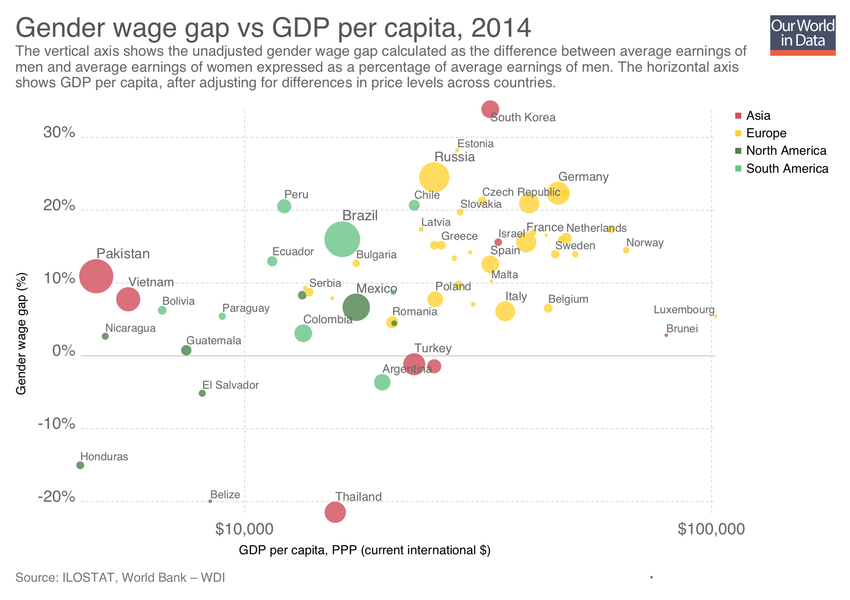
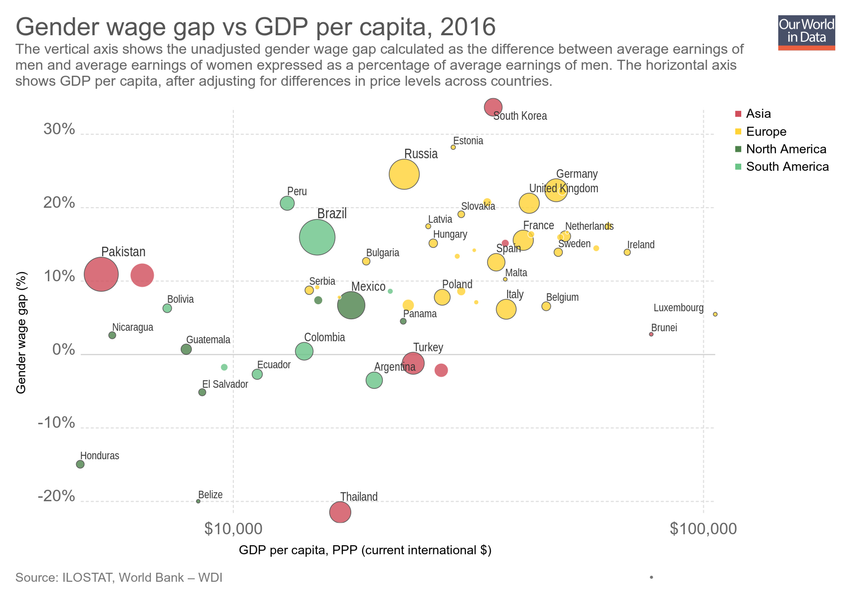
Updating chart gender-wage-gap-vs-gdp-per-capita

diff --git a/grapher/gender-wage-gap-vs-gdp-per-capita.html b/grapher/gender-wage-gap-vs-gdp-per-capita.html
@@ -1,4 +1,4 @@
-<!doctype html><html><head><meta name="viewport" content="width=device-width, initial-scale=1" /><title>Gender wage gap vs GDP per capita - Our World in Data</title><meta name="description" content="The vertical axis shows the unadjusted gender wage gap calculated as the difference between average earnings of men and average earnings of women expressed as a percentage of average earnings of men. The horizontal axis shows GDP per capita, after adjusting for differences in price levels across countries." /><link rel="canonical" href="https://ourworldindata.org/grapher/gender-wage-gap-vs-gdp-per-capita" /><meta property="fb:app_id" content="1149943818390250" /><meta property="og:url" content="https://ourworldindata.org/grapher/gender-wage-gap-vs-gdp-per-capita" /><meta property="og:title" content="Gender wage gap vs GDP per capita" /><meta property="og:description" content="The vertical axis shows the unadjusted gender wage gap calculated as the difference between average earnings of men and average earnings of women expressed as a percentage of average earnings of men. The horizontal axis shows GDP per capita, after adjusting for differences in price levels across countries." /><meta property="og:image" content="https://ourworldindata.org/grapher/exports/gender-wage-gap-vs-gdp-per-capita.png?v=2" /><meta property="og:image:width" content="850" /><meta property="og:image:height" content="600" /><meta property="og:site_name" content="Our World in Data" /><meta name="twitter:card" content="summary_large_image" /><meta name="twitter:site" content="@OurWorldInData" /><meta name="twitter:creator" content="@OurWorldInData" /><meta name="twitter:title" content="Gender wage gap vs GDP per capita" /><meta name="twitter:description" content="The vertical axis shows the unadjusted gender wage gap calculated as the difference between average earnings of men and average earnings of women expressed as a percentage of average earnings of men. The horizontal axis shows GDP per capita, after adjusting for differences in price levels across countries." /><meta name="twitter:image" content="https://ourworldindata.org/grapher/exports/gender-wage-gap-vs-gdp-per-capita.png?v=2" /><style>
+<!doctype html><html><head><meta name="viewport" content="width=device-width, initial-scale=1" /><title>Gender wage gap vs GDP per capita - Our World in Data</title><meta name="description" content="The vertical axis shows the unadjusted gender wage gap calculated as the difference between average earnings of men and average earnings of women expressed as a percentage of average earnings of men. The horizontal axis shows GDP per capita, after adjusting for differences in price levels across countries." /><link rel="canonical" href="https://ourworldindata.org/grapher/gender-wage-gap-vs-gdp-per-capita" /><meta property="fb:app_id" content="1149943818390250" /><meta property="og:url" content="https://ourworldindata.org/grapher/gender-wage-gap-vs-gdp-per-capita" /><meta property="og:title" content="Gender wage gap vs GDP per capita" /><meta property="og:description" content="The vertical axis shows the unadjusted gender wage gap calculated as the difference between average earnings of men and average earnings of women expressed as a percentage of average earnings of men. The horizontal axis shows GDP per capita, after adjusting for differences in price levels across countries." /><meta property="og:image" content="https://ourworldindata.org/grapher/exports/gender-wage-gap-vs-gdp-per-capita.png?v=3" /><meta property="og:image:width" content="850" /><meta property="og:image:height" content="600" /><meta property="og:site_name" content="Our World in Data" /><meta name="twitter:card" content="summary_large_image" /><meta name="twitter:site" content="@OurWorldInData" /><meta name="twitter:creator" content="@OurWorldInData" /><meta name="twitter:title" content="Gender wage gap vs GDP per capita" /><meta name="twitter:description" content="The vertical axis shows the unadjusted gender wage gap calculated as the difference between average earnings of men and average earnings of women expressed as a percentage of average earnings of men. The horizontal axis shows GDP per capita, after adjusting for differences in price levels across countries." /><meta name="twitter:image" content="https://ourworldindata.org/grapher/exports/gender-wage-gap-vs-gdp-per-capita.png?v=3" /><style>
         html, body {
             height: 100%;
             margin: 0;
@@ -20,8 +20,8 @@
         }
     </style><noscript><style>
                     figure { display: none !important; }
-                </style></noscript><link rel="stylesheet" href="https://ourworldindata.org/grapher/assets/commons.bundle.dcbbe53805c487d5e57617b10ac73a8a.css" /><link rel="preload" href="/grapher/data/variables/65628+2210+72+123.json?v=2" as="fetch" crossorigin /></head><body class="singleChart"><figure data-grapher-src="/grapher/gender-wage-gap-vs-gdp-per-capita"></figure><noscript id="fallback"><img src="/grapher/exports/gender-wage-gap-vs-gdp-per-capita.svg" /><p>Interactive visualization requires JavaScript</p></noscript><script src="https://cdn.polyfill.io/v2/polyfill.min.js?features=es6,fetch"></script><script src="https://ourworldindata.org/grapher/assets/commons.bundle.ec195eba909527e01aa5.js"></script><script src="https://ourworldindata.org/grapher/assets/charts.bundle.ec195eba909527e01aa5.js"></script><script>
-        var jsonConfig = {"id":1699,"map":{"projection":"SouthAmerica","targetYear":2016,"variableId":65628,"timeTolerance":10,"colorSchemeLabels":[],"colorSchemeValues":[-22,-16,-9,-3,4,10,17,23,30,36],"defaultProjection":"World","colorSchemeMinValue":-25,"customNumericColors":[],"customCategoryColors":{},"customCategoryLabels":{},"customHiddenCategories":{}},"tab":"chart","slug":"gender-wage-gap-vs-gdp-per-capita","type":"ScatterPlot","title":"Gender wage gap vs GDP per capita","xAxis":{"scaleType":"log","canChangeScaleType":true},"yAxis":{"min":0,"scaleType":"linear"},"maxTime":2016,"minTime":2016,"version":2,"subtitle":"The vertical axis shows the unadjusted gender wage gap calculated as the difference between average earnings of men and average earnings of women expressed as a percentage of average earnings of men. The horizontal axis shows GDP per capita, after adjusting for differences in price levels across countries.","hasMapTab":true,"originUrl":"","stackMode":"absolute","dimensions":[{"display":{"tolerance":2},"property":"y","variableId":65628},{"display":{"tolerance":2},"property":"x","variableId":2210},{"display":{},"property":"size","variableId":72},{"display":{},"property":"color","variableId":123}],"hasChartTab":true,"isPublished":true,"selectedData":[],"internalNotes":"","addCountryMode":"add-country"};
+                </style></noscript><link rel="stylesheet" href="https://ourworldindata.org/grapher/assets/commons.bundle.dcbbe53805c487d5e57617b10ac73a8a.css" /><link rel="preload" href="/grapher/data/variables/65628+2210+72+123.json?v=3" as="fetch" crossorigin /></head><body class="singleChart"><figure data-grapher-src="/grapher/gender-wage-gap-vs-gdp-per-capita"></figure><noscript id="fallback"><img src="/grapher/exports/gender-wage-gap-vs-gdp-per-capita.svg" /><p>Interactive visualization requires JavaScript</p></noscript><script src="https://cdn.polyfill.io/v2/polyfill.min.js?features=es6,fetch"></script><script src="https://ourworldindata.org/grapher/assets/commons.bundle.ec195eba909527e01aa5.js"></script><script src="https://ourworldindata.org/grapher/assets/charts.bundle.ec195eba909527e01aa5.js"></script><script>
+        var jsonConfig = {"id":1699,"map":{"projection":"SouthAmerica","targetYear":2016,"variableId":65628,"timeTolerance":5,"colorSchemeLabels":[],"colorSchemeValues":[-22,-16,-9,-3,4,10,17,23,30,36],"colorSchemeMinValue":-25,"customNumericColors":[],"customCategoryColors":{},"customCategoryLabels":{},"customHiddenCategories":{}},"tab":"chart","slug":"gender-wage-gap-vs-gdp-per-capita","type":"ScatterPlot","title":"Gender wage gap vs GDP per capita","xAxis":{"scaleType":"log","canChangeScaleType":true},"yAxis":{"min":0,"scaleType":"linear"},"maxTime":2016,"minTime":2016,"version":3,"subtitle":"The vertical axis shows the unadjusted gender wage gap calculated as the difference between average earnings of men and average earnings of women expressed as a percentage of average earnings of men. The horizontal axis shows GDP per capita, after adjusting for differences in price levels across countries.","hasMapTab":true,"originUrl":"","stackMode":"absolute","dimensions":[{"display":{"tolerance":2},"property":"y","variableId":65628},{"display":{"tolerance":2},"property":"x","variableId":2210},{"display":{},"property":"size","variableId":72},{"display":{},"property":"color","variableId":123}],"hasChartTab":true,"isPublished":true,"selectedData":[],"internalNotes":"","addCountryMode":"add-country"};
         var figure = document.getElementsByTagName("figure")[0];
         try {
             window.App = {};
